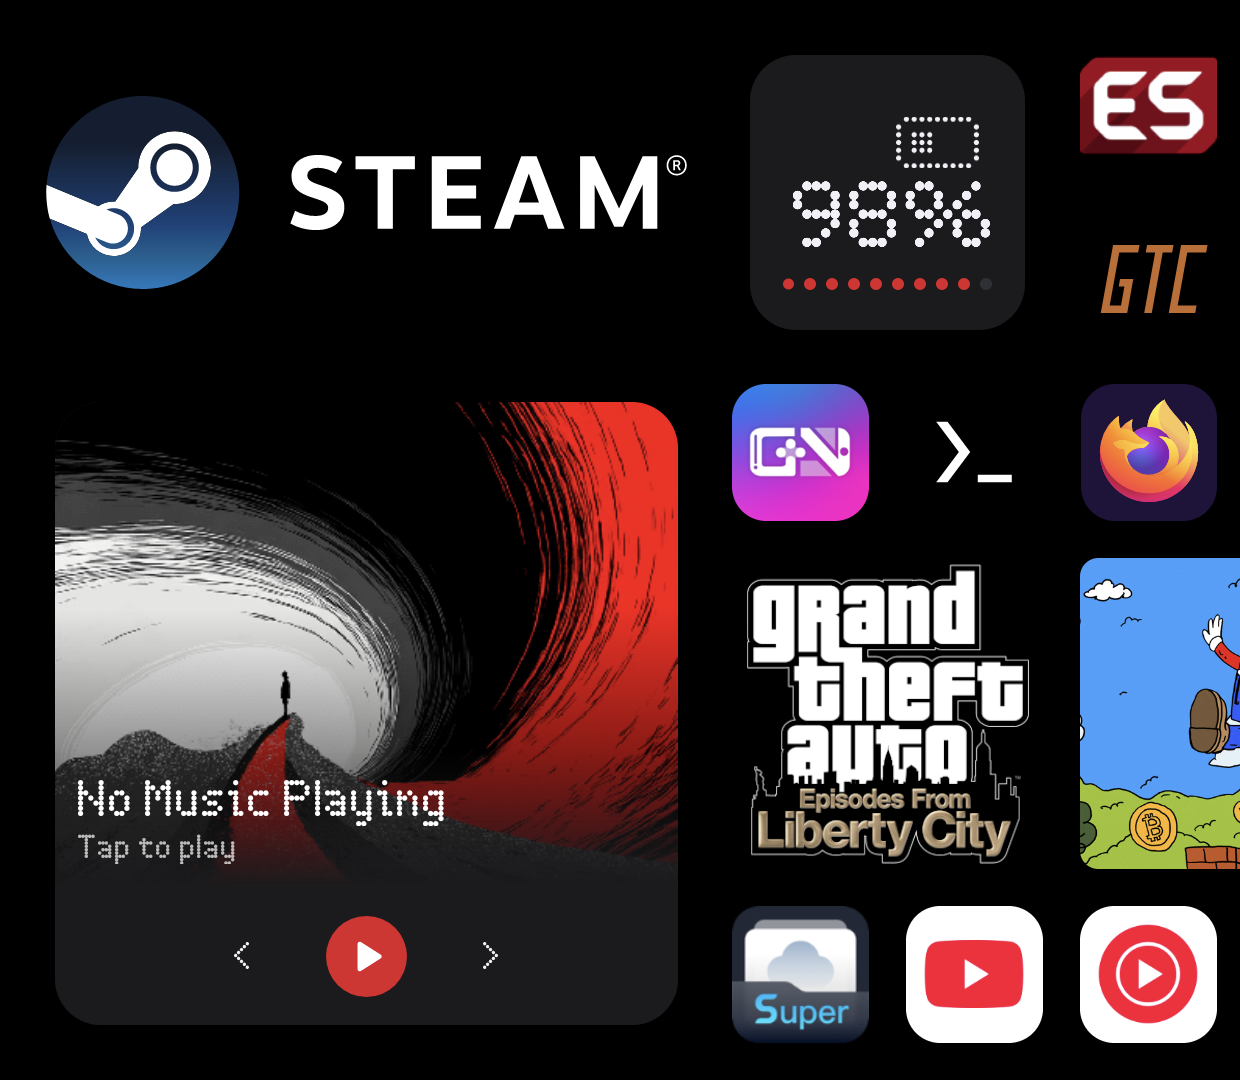
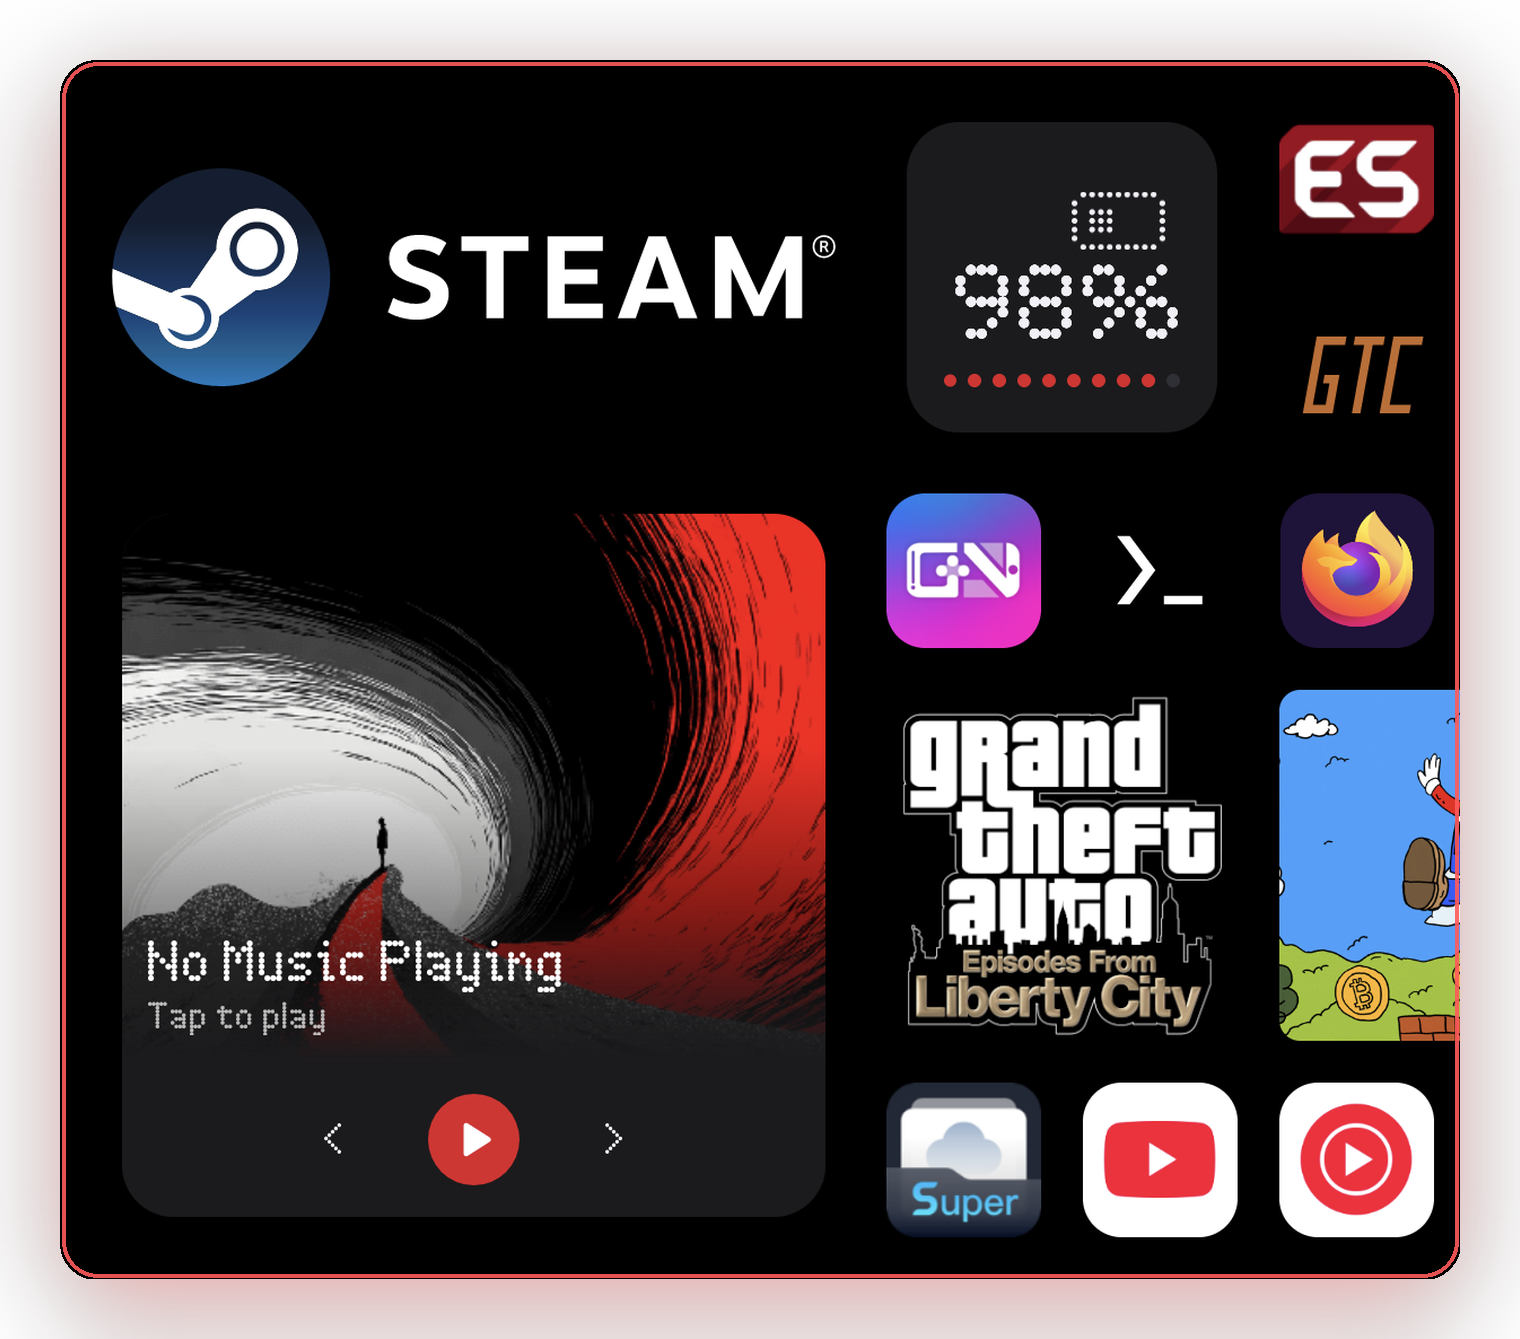
Dress up README screenshots with matched framing, stack vertically

diff --git a/README.md b/README.md
@@ -156,9 +156,10 @@ Turn the frontend off and Jarngreipr becomes a live companion for ES-DE running 
 Captured live on an AYN Thor. Top screen running the Frontend's systems view; bottom screen running Canvas with a Frontend widget that mirrors the focused system, plus a battery widget, Now Playing tile, and the focused game's art.
 
 <p align="center">
-  <img src="docs/screenshots/thor-top.png" alt="Top screen: Frontend systems view" width="48%"/>
-  &nbsp;
-  <img src="docs/screenshots/thor-bottom.png" alt="Bottom screen: Canvas with Frontend widget" width="48%"/>
+  <img src="docs/screenshots/thor-top.png" alt="Top screen: Frontend systems view" width="70%"/>
+</p>
+<p align="center">
+  <img src="docs/screenshots/thor-bottom.png" alt="Bottom screen: Canvas with Frontend widget" width="55%"/>
 </p>
 
 ---
